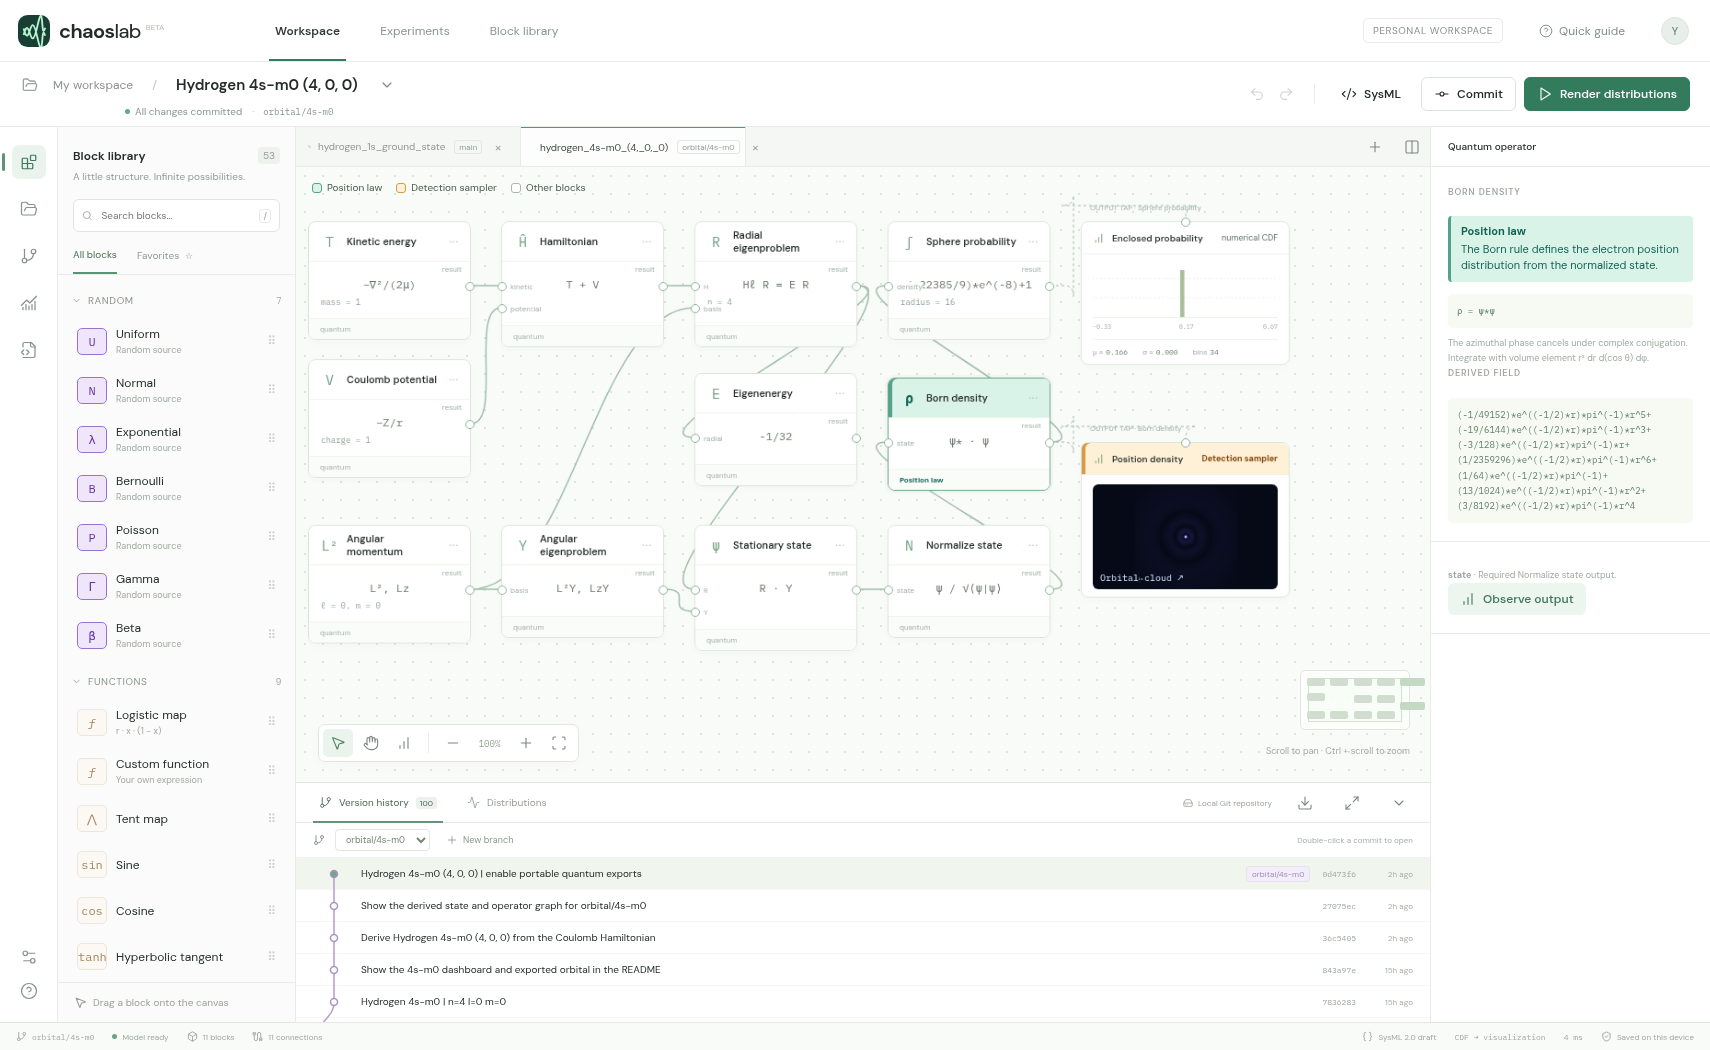
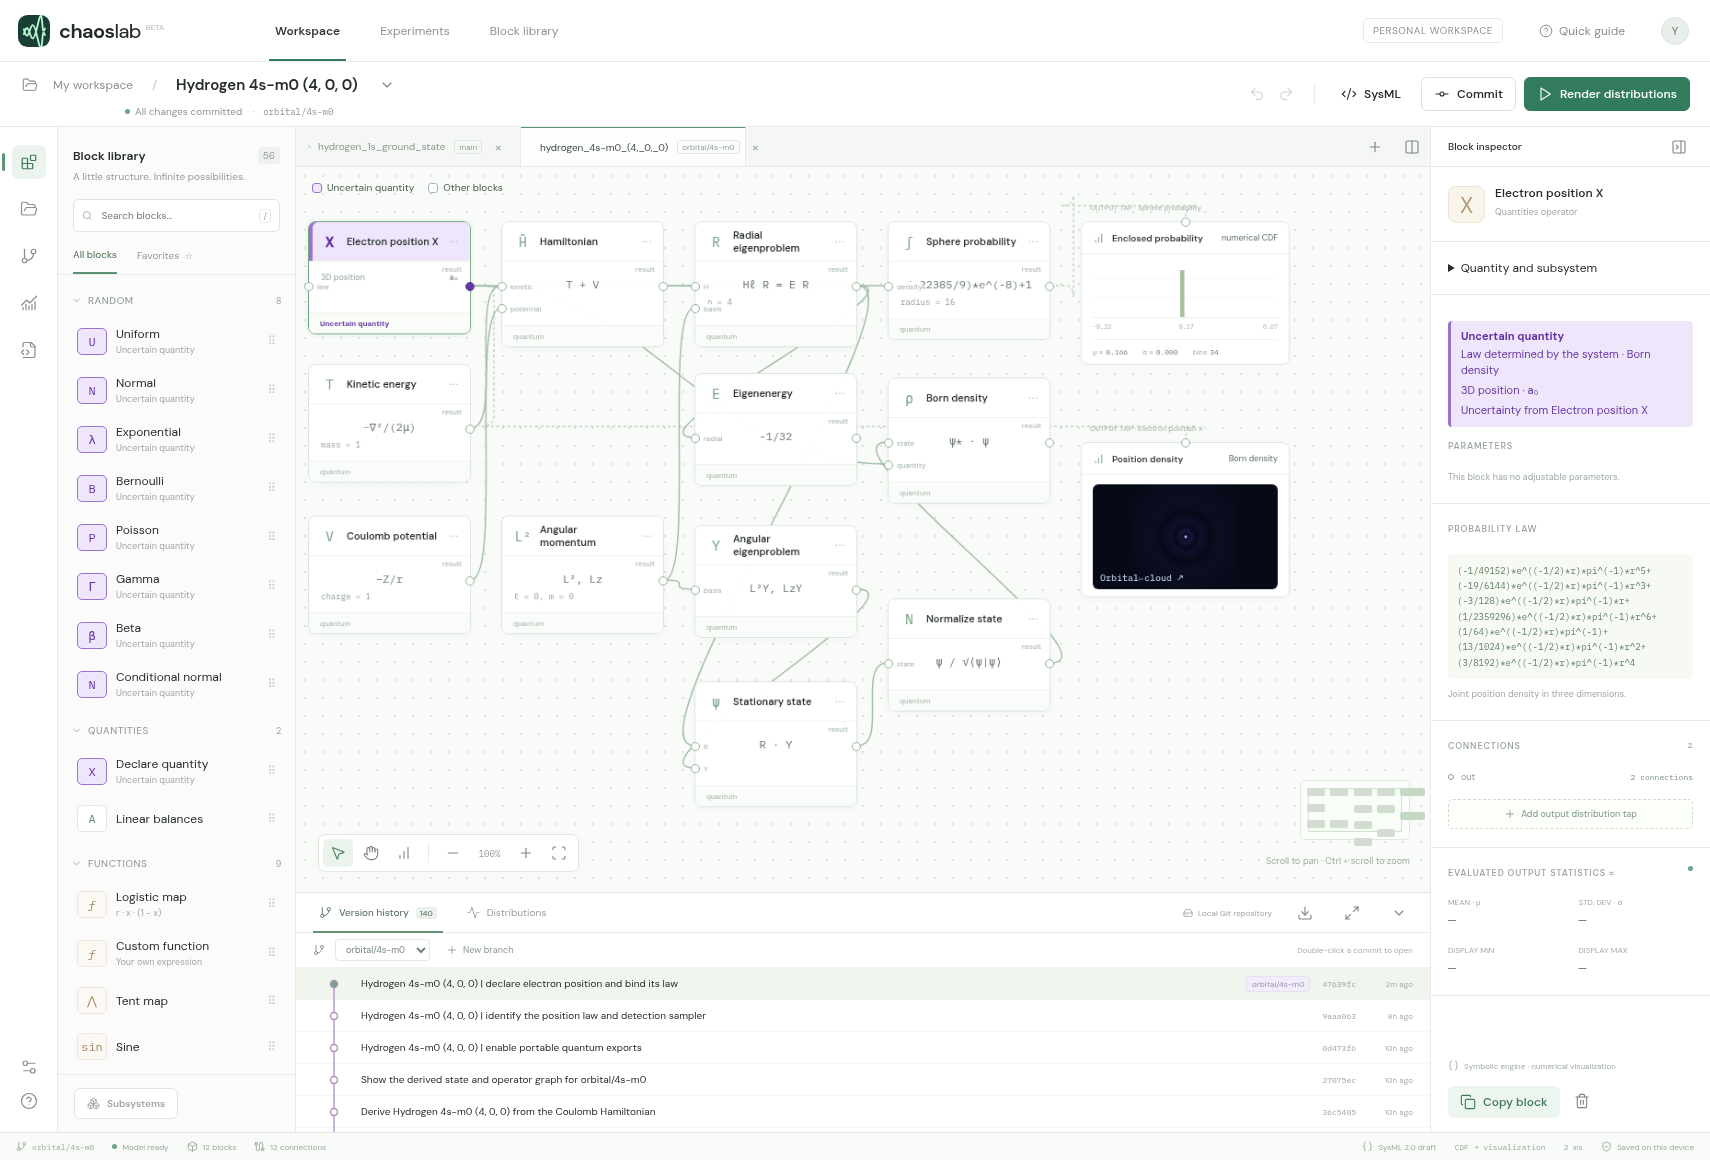
Show the position declaration and its law provider for orbital/4s-m0

diff --git a/studio.py b/studio.py
@@ -10,7 +10,7 @@ import tempfile
 import webbrowser
 
 ROOT = Path(__file__).resolve().parent
-STUDIO_REV = "5cbb600c6ee5baa24d159ddc6c974d68eb68f653"
+STUDIO_REV = "515ba96842af71b90f41019a508548a96e802665"
 STUDIO_REPO = "https://github.com/wa200508/chaos_lab.git"
 
 

diff --git a/README.md b/README.md
@@ -6,7 +6,7 @@ Open **Version history** in Chaos Lab to explore the 20 hydrogen designs in this
 
 The connected Hamiltonian and eigenstate solvers give $E=-1/32$ Hartree for this state.
 
-The purple **Electron position X** block declares the three-dimensional quantity in Bohr radii. Open its inspector to see **Born density** as its law provider. The sphere measurement and spatial tap both observe X. Projected detections draw from the final law; the central slice evaluates the density directly.
+The purple **Electron position X** block declares the three-dimensional quantity in Bohr radii. Open its inspector to see **Born density** as its law provider. The sphere measurement and spatial tap both observe X. Projected detections draw from the final law. The central slice evaluates the density directly.
 
 ![Chaos Lab dashboard with the 4s model, m = 0, open in version history](dashboard.png)
 
